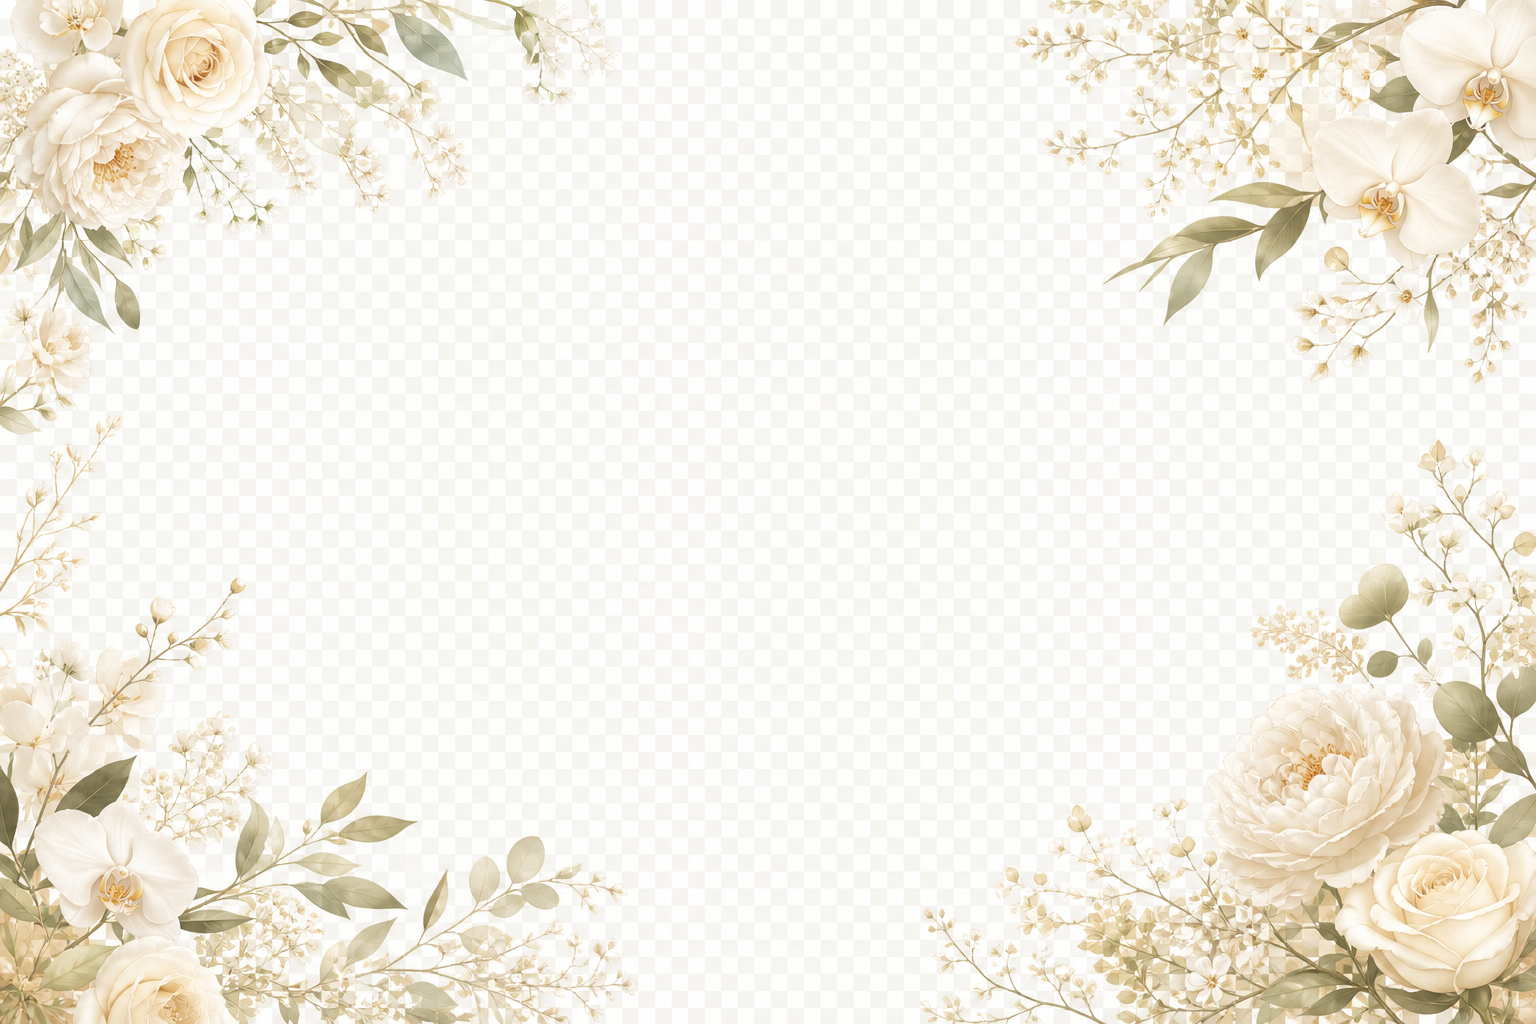
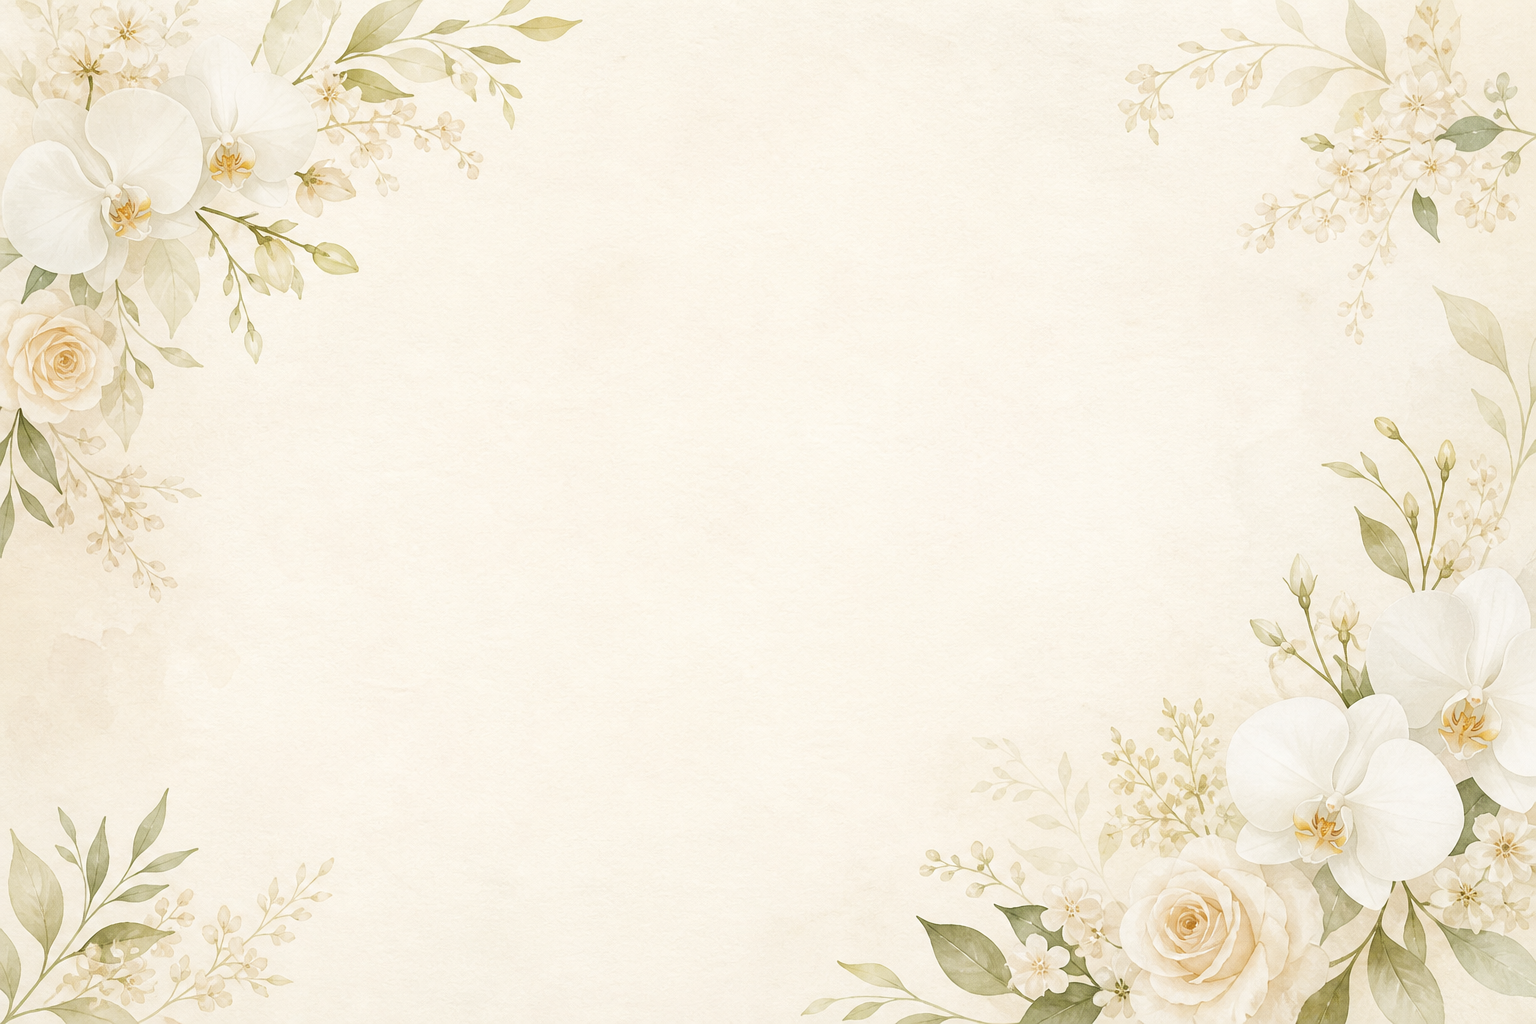
refine(home): apply unified page floral backdrop system
Promote the minimal floral background to a page-level backdrop and soften section/footer surfaces so content cards sit cleanly above a consistent quiet-luxury frame.

diff --git a/components/sections/HomeShell.tsx b/components/sections/HomeShell.tsx
@@ -1,7 +1,6 @@
 import { ChevronDown } from "lucide-react";
 
 import Button from "@/components/ui/Button";
-import BotanicalBackdrop from "@/components/ui/BotanicalBackdrop";
 import Container from "@/components/ui/Container";
 import DecorativeDivider from "@/components/ui/DecorativeDivider";
 import FadeIn from "@/components/ui/FadeIn";
@@ -25,10 +24,9 @@ export default function HomeShell({ content }: HomeShellProps) {
       <Section
         background="cream"
         className={cn(
-          "relative overflow-hidden bg-gradient-to-b from-cream via-cream to-olive-soft/25 py-16 md:py-24",
+          "relative overflow-hidden bg-gradient-to-b from-cream/74 via-cream/68 to-olive-soft/20 py-16 md:py-24",
         )}
       >
-        <BotanicalBackdrop />
         <Container className="relative z-10">
           <FadeIn className="mx-auto max-w-lg">
             <div className="flex flex-col items-center text-center">
@@ -86,7 +84,7 @@ export default function HomeShell({ content }: HomeShellProps) {
         </Container>
       </Section>
 
-      <Section background="transparent" className="scroll-mt-4 bg-cream py-14 md:py-20" id="quick-actions">
+      <Section background="transparent" className="scroll-mt-4 bg-cream/64 py-14 md:py-20" id="quick-actions">
         <Container>
           <div className="mx-auto min-w-0 max-w-3xl">
             <div className="grid min-w-0 grid-cols-1 gap-3.5 sm:grid-cols-2 sm:gap-4">
@@ -107,7 +105,7 @@ export default function HomeShell({ content }: HomeShellProps) {
 
       <DecorativeDivider />
 
-      <Section background="transparent" className="bg-cream pt-0">
+      <Section background="transparent" className="bg-cream/64 pt-0">
         <Container size="narrow">
           <div className="min-w-0 max-w-full space-y-5 rounded-[1.75rem] border border-olive/10 bg-ivory p-6 shadow-[0_16px_40px_-28px_rgba(86,94,63,0.14)] sm:p-8">
             <div className="flex flex-col items-center gap-3 text-center">

diff --git a/components/ui/BotanicalBackdrop.tsx b/components/ui/BotanicalBackdrop.tsx
@@ -3,14 +3,19 @@ import Image from "next/image";
 import { publicAssetPath } from "@/lib/publicAssetPath";
 import { cn } from "@/lib/utils";
 
-/** 1536x1024 minimal floral background generated for home hero. */
+/** 1536x1024 minimal floral background generated for reusable page framing. */
 const MINIMAL_FLOWER_BG = publicAssetPath("/images/minimal-flower-wedding-background.png");
+
+type BotanicalBackdropProps = {
+  className?: string;
+  imageClassName?: string;
+};
 
 /**
  * Quiet-luxury floral framing with one minimal flower-only canvas.
  * Keeps center calm while preserving floral corners.
  */
-export default function BotanicalBackdrop({ className }: { className?: string }) {
+export default function BotanicalBackdrop({ className, imageClassName }: BotanicalBackdropProps) {
   return (
     <div
       className={cn("pointer-events-none absolute inset-0 z-0 overflow-hidden", className)}
@@ -21,12 +26,15 @@ export default function BotanicalBackdrop({ className }: { className?: string })
           src={MINIMAL_FLOWER_BG}
           alt=""
           fill
-          className="object-cover object-center mix-blend-multiply opacity-[0.72] saturate-[1.04] brightness-[1.02] md:opacity-[0.78]"
+          className={cn(
+            "object-cover object-center mix-blend-multiply opacity-[0.78] saturate-[1.04] brightness-[1.02] md:opacity-[0.84]",
+            imageClassName,
+          )}
           sizes="100vw"
         />
       </div>
 
-      {/* Centre veil keeps hero typography calm */}
+      {/* Centre veil keeps typography calm on top of the page-wide image. */}
       <div className="absolute inset-0 bg-[radial-gradient(ellipse_min(92%,96%)_at_50%_40%,rgb(248_245_239/0.93)_45%,transparent_74%)]" />
       <div className="absolute inset-x-0 top-[42%] h-[30%] bg-gradient-to-b from-transparent via-cream/46 to-transparent" />
     </div>

diff --git a/app/layout.tsx b/app/layout.tsx
@@ -4,6 +4,7 @@ import { Cormorant_Garamond, IBM_Plex_Sans_Thai, Inter } from "next/font/google"
 import Footer from "@/components/layout/Footer";
 import MobileBottomNav from "@/components/layout/MobileBottomNav";
 import Navbar from "@/components/layout/Navbar";
+import BotanicalBackdrop from "@/components/ui/BotanicalBackdrop";
 import "./globals.css";
 
 const cormorant = Cormorant_Garamond({
@@ -48,13 +49,19 @@ export default function RootLayout({
       className={`light h-full ${cormorant.variable} ${inter.variable} ${ibmPlexSansThai.variable} antialiased`}
     >
       <body className="min-h-full min-w-0 bg-cream text-charcoal font-body">
-        <div className="flex min-h-screen min-w-0 flex-col">
-          <Navbar />
-          <main className="min-w-0 flex-1 overflow-x-clip pb-[calc(4.75rem+env(safe-area-inset-bottom))] lg:pb-0">
-            {children}
-          </main>
-          <Footer />
-          <MobileBottomNav />
+        <div className="relative isolate min-h-screen min-w-0 bg-cream">
+          <BotanicalBackdrop
+            className="fixed inset-0 z-0"
+            imageClassName="opacity-[0.86] md:opacity-[0.9]"
+          />
+          <div className="relative z-10 flex min-h-screen min-w-0 flex-col">
+            <Navbar />
+            <main className="min-w-0 flex-1 overflow-x-clip pb-[calc(4.75rem+env(safe-area-inset-bottom))] lg:pb-0">
+              {children}
+            </main>
+            <Footer />
+            <MobileBottomNav />
+          </div>
         </div>
       </body>
     </html>

diff --git a/components/layout/Footer.tsx b/components/layout/Footer.tsx
@@ -24,7 +24,7 @@ export default function Footer({ className }: FooterProps) {
   return (
     <footer
       className={cn(
-        "relative overflow-hidden border-t border-olive/10 bg-gradient-to-b from-ivory via-cream to-olive-soft/35 pt-12 pb-[calc(6rem+env(safe-area-inset-bottom))] md:pt-16 md:pb-12 lg:pb-10",
+        "relative overflow-hidden border-t border-olive/10 bg-gradient-to-b from-ivory/88 via-cream/80 to-olive-soft/30 pt-12 pb-[calc(6rem+env(safe-area-inset-bottom))] md:pt-16 md:pb-12 lg:pb-10",
         localeTextClass,
         className,
       )}

diff --git a/components/ui/Section.tsx b/components/ui/Section.tsx
@@ -15,8 +15,8 @@ type SectionProps = {
 };
 
 const backgroundClasses: Record<SectionBackground, string> = {
-  cream: "bg-cream",
-  ivory: "bg-ivory",
+  cream: "bg-cream/72",
+  ivory: "bg-ivory/86",
   transparent: "bg-transparent",
 };
 
